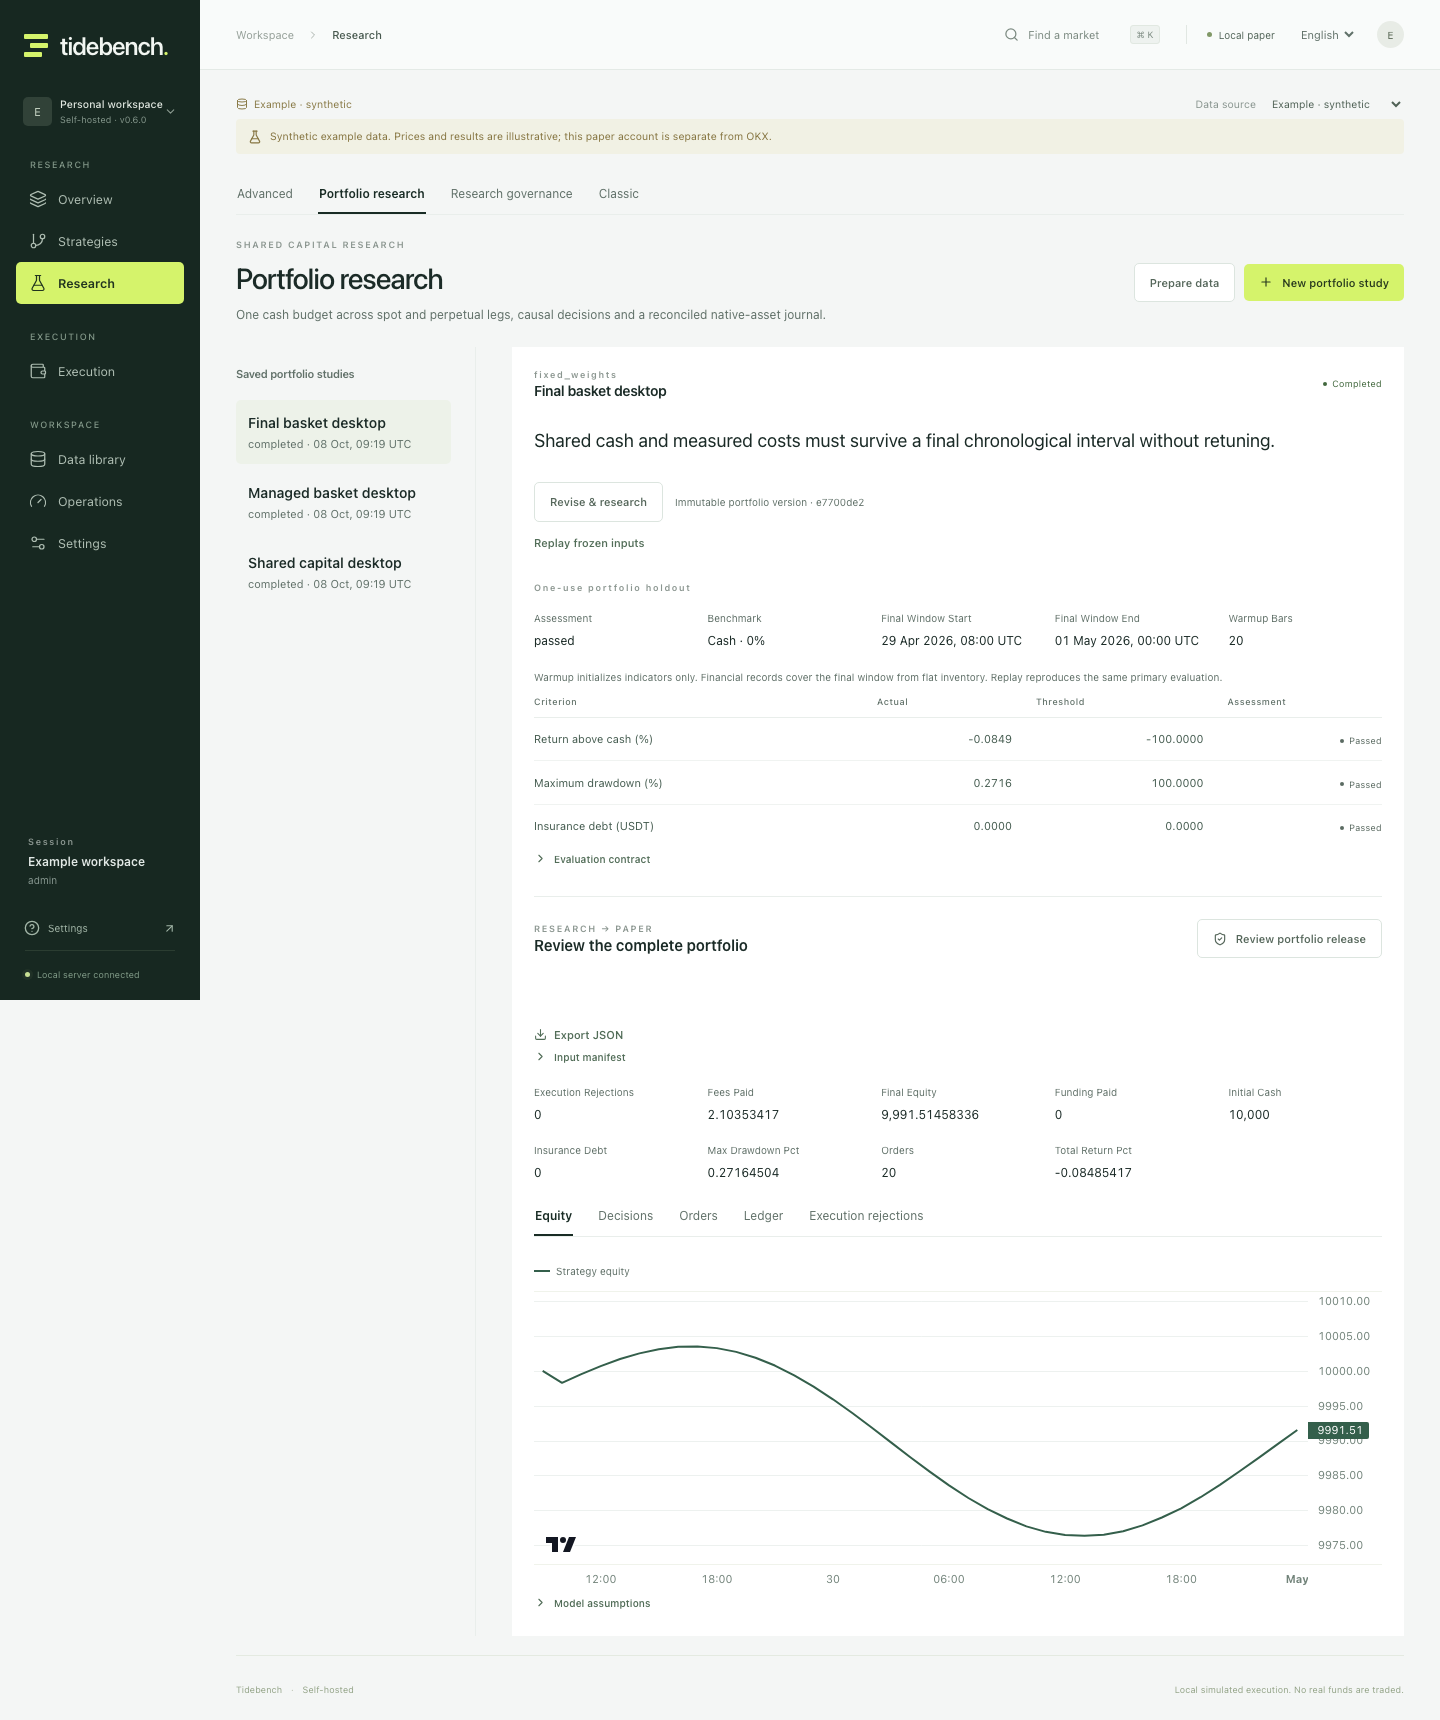
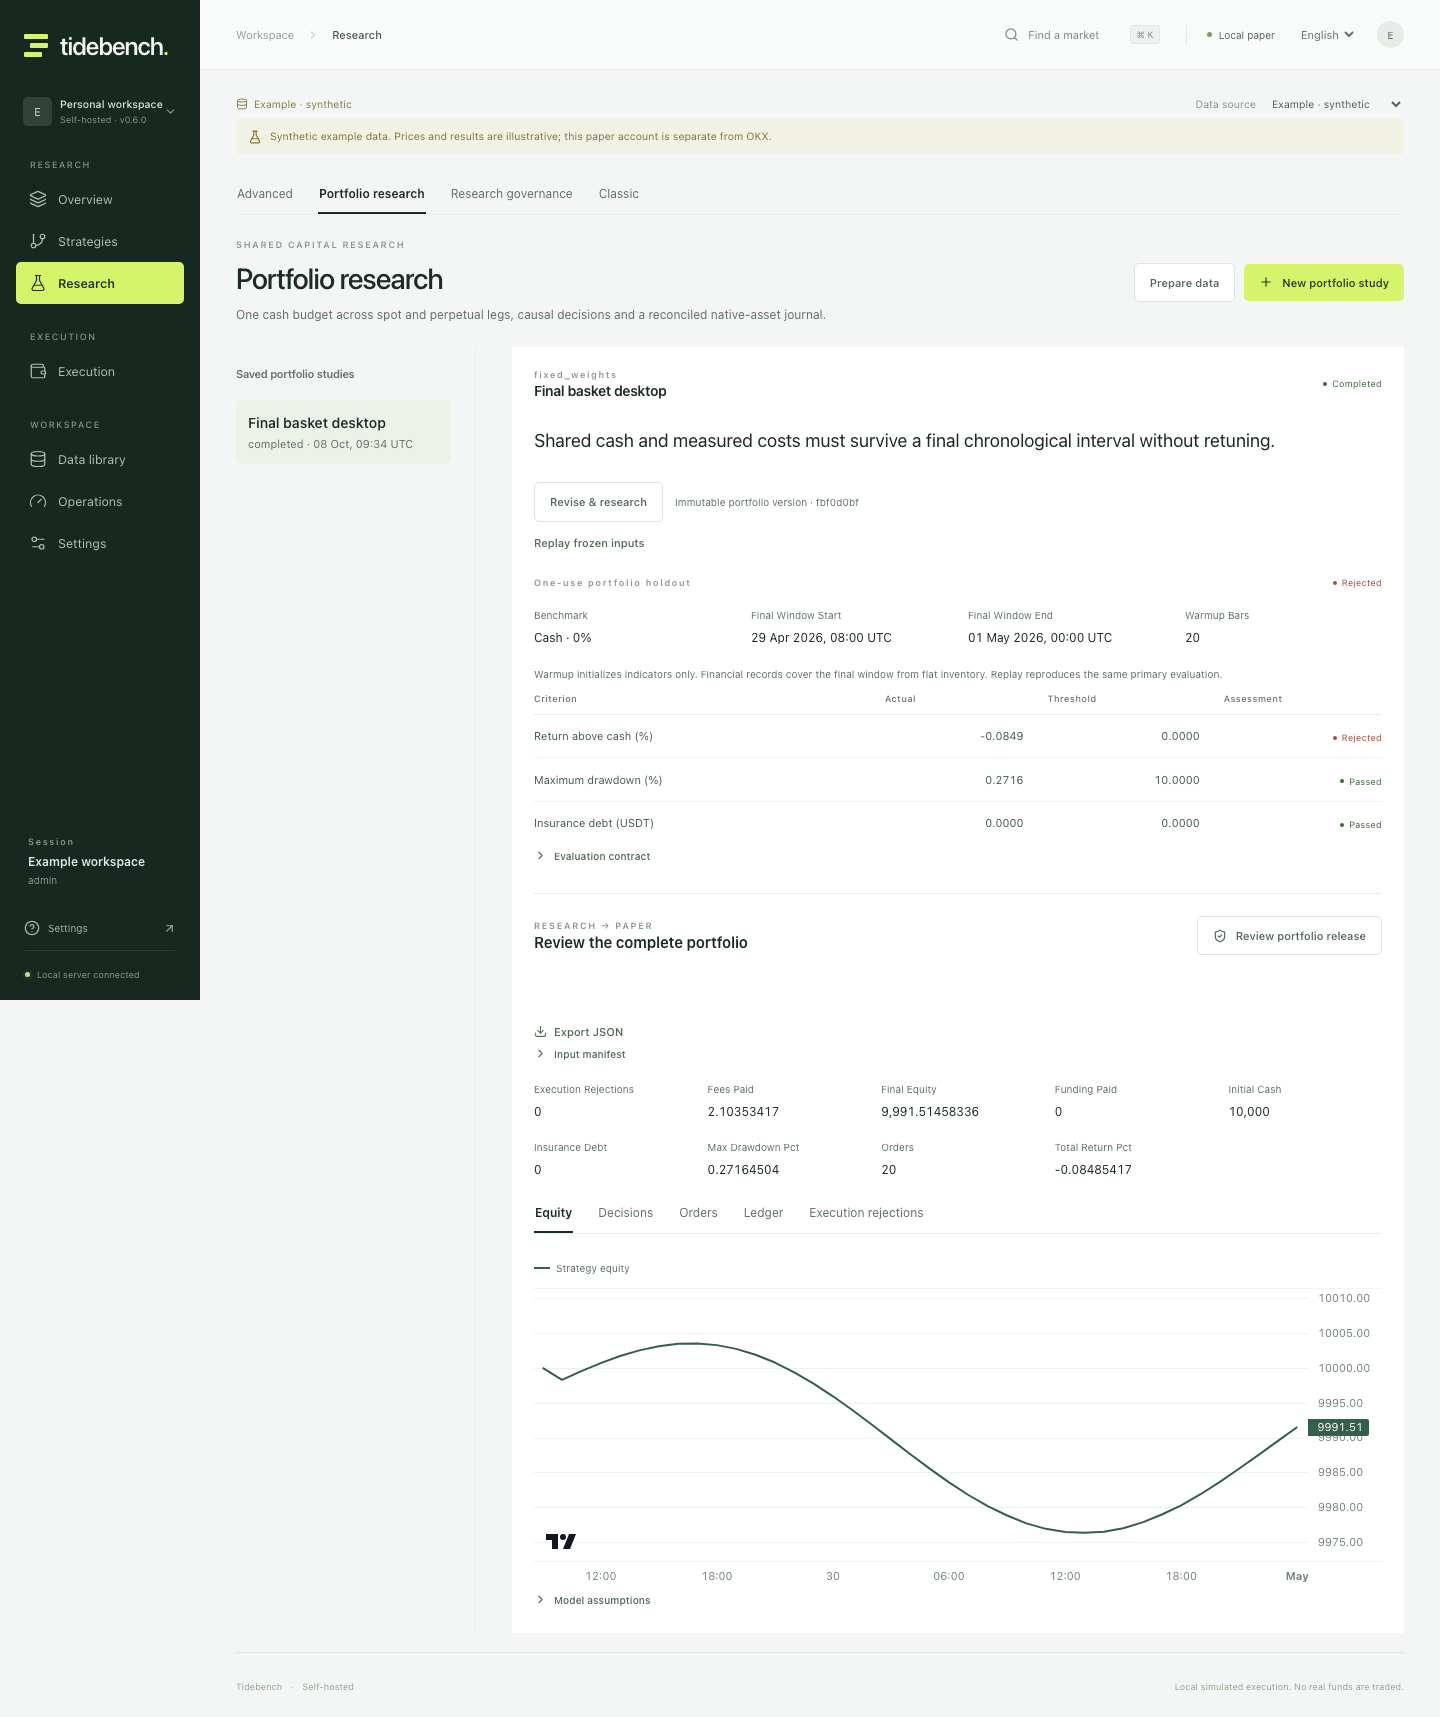
Verify and present rejected portfolio evaluations with explicit release acknowledgement

diff --git a/frontend/src/pages/PortfolioResearch.tsx b/frontend/src/pages/PortfolioResearch.tsx
@@ -258,6 +258,9 @@ export default function PortfolioResearch({
   );
   const plan = run.data?.result;
   const evaluationEvidence = plan?.evaluation as RecordData | undefined;
+  const sealedAssessment = String(
+    (evaluationEvidence?.rejection as RecordData)?.status ?? 'unavailable',
+  );
   const trainingMetrics = evaluationEvidence?.train_metrics as RecordData | undefined;
   return (
     <>
@@ -788,12 +791,22 @@ export default function PortfolioResearch({
                 )}
                 {evaluationEvidence?.mode === 'sealed_holdout' && (
                   <section className="sealed-evaluation">
-                    <span className="eyebrow">{t('One-use portfolio holdout')}</span>
+                    <div className="section-heading">
+                      <span className="eyebrow">{t('One-use portfolio holdout')}</span>
+                      <Status
+                        type={
+                          sealedAssessment === 'passed'
+                            ? 'good'
+                            : sealedAssessment === 'rejected'
+                              ? 'bad'
+                              : 'warning'
+                        }
+                      >
+                        {t(sealedAssessment)}
+                      </Status>
+                    </div>
                     <RecordGrid
                       value={{
-                        Assessment: t(
-                          String((evaluationEvidence.rejection as RecordData)?.status ?? '—'),
-                        ),
                         Benchmark: t('Cash · 0%'),
                         'Final window start': date(Number(evaluationEvidence.test_start), true),
                         'Final window end': date(Number(evaluationEvidence.test_end), true),
@@ -841,7 +854,11 @@ export default function PortfolioResearch({
                         {
                           key: 'passed',
                           label: 'Assessment',
-                          render: (r) => <Status>{t(r.passed ? 'passed' : 'rejected')}</Status>,
+                          render: (r) => (
+                            <Status type={r.passed === true ? 'good' : 'bad'}>
+                              {t(r.passed === true ? 'passed' : 'rejected')}
+                            </Status>
+                          ),
                         },
                       ]}
                     />

diff --git a/frontend/e2e/workspace.spec.ts b/frontend/e2e/workspace.spec.ts
@@ -886,8 +886,8 @@ test('portfolio holdout captures a final contract, evaluates once and replays fr
   await page
     .getByLabel('UTC final end', { exact: true })
     .fill(new Date(end).toISOString().slice(0, 16));
-  await page.getByLabel('Minimum return versus cash %', { exact: true }).fill('-100');
-  await page.getByLabel('Maximum accepted drawdown %', { exact: true }).fill('100');
+  await page.getByLabel('Minimum return versus cash %', { exact: true }).fill('0');
+  await page.getByLabel('Maximum accepted drawdown %', { exact: true }).fill('10');
   await page
     .getByLabel('Rejection plan', { exact: true })
     .fill(
@@ -922,6 +922,9 @@ test('portfolio holdout captures a final contract, evaluates once and replays fr
     )
     .toBe('completed');
   await expect(page.getByText('One-use portfolio holdout', { exact: true })).toBeVisible();
+  await expect(
+    page.locator('.sealed-evaluation .status-bad').getByText('rejected', { exact: true }).first(),
+  ).toBeVisible();
   if (process.env.TIDEBENCH_CAPTURE_ASSETS === '1') {
     await mkdir('../docs/assets', { recursive: true });
     await page.screenshot({
@@ -953,6 +956,19 @@ test('portfolio holdout captures a final contract, evaluates once and replays fr
   expect(evidence.recorded_attempts).toBe(2);
   expect(evidence.primary_evaluations).toBe(1);
   expect(evidence.replay_attempts).toBe(1);
+  const releasePreview = page.waitForResponse(
+    (r) => r.url().endsWith('/portfolio-releases/preview') && r.request().method() === 'POST',
+  );
+  await page.getByRole('button', { name: 'Review portfolio release', exact: true }).click();
+  expect((await (await releasePreview).json()).required_acknowledgements).toContain(
+    'holdout_rejected',
+  );
+  const rejectionAcknowledgement = page.getByRole('checkbox', {
+    name: 'This final holdout failed its pre-registered criteria. Paper deployment does not turn it into positive evidence.',
+    exact: true,
+  });
+  await expect(rejectionAcknowledgement).toBeVisible();
+  await expect(rejectionAcknowledgement).not.toBeChecked();
   await expect(page.locator('.error-box')).toHaveCount(0);
   expect(pageErrors).toEqual([]);
   expect(

diff --git a/docs/verification.md b/docs/verification.md
@@ -5,7 +5,7 @@
 - Full local backend regression on the corrected planner: **666 passed** (123.99 seconds), followed by the additional strict-residual/minimum-deferral counterexample (**1 passed**). Ruff lint/format, frozen offline Python sync, TypeScript/Vite and Prettier passed. The existing Starlette/HTTPX deprecation remains visible.
 - **16 desktop/mobile Chromium workflows passed** on the final build (2.0 minutes). New coverage includes exact portfolio capture → review → seal → primary evaluation → verified replay, plus preserving a newly edited order draft when a previous submission responds late. Desktop/mobile screenshots were inspected and long-decimal criteria formatted with exact hover values.
 - Real SQLite counterexamples verify concurrent single-primary admission, queue rollback, committed-failure consumption, cross-bar/alias/unbound access rejection, indicator warmup exposure, schema-6 recovery retaining consumption/exposure/trials, missing primary artifacts and conflicting/corrupt retained facts. A real independent market fill between quote enumeration and managed-command admission now retries without duplicate fills or compensation.
-- Current standalone managed/recovery and offline red-team audit scripts passed against this implementation. Earlier failed v0.5 lifecycle trials are preserved; see [audit method](audit/soak-method.md). The [independent Linux CI](https://github.com/billpwchan/tidebench/actions/runs/37755474249) passed on source `5e687fd716dfe4f7ef7b224c082ba656a613e828`, including 666 backend tests, 16 browser workflows, isolated audits and the built container/readiness smoke. Later evidence/tests/documentation commits preserve the same application implementation.
+- Current standalone managed/recovery and offline red-team audit scripts passed against this implementation. Earlier failed v0.5 lifecycle trials are preserved; see [audit method](audit/soak-method.md). The [independent Linux CI](https://github.com/billpwchan/tidebench/actions/runs/37755474249) passed on source `5e687fd716dfe4f7ef7b224c082ba656a613e828`, including 666 backend tests, 16 browser workflows, isolated audits and the built container/readiness smoke. The later [evidence/test CI](https://github.com/billpwchan/tidebench/actions/runs/37756868967) passed **667 backend tests** and 16 browser workflows. The final presentation review added explicit rejected-result coloring, preserved pre-declared nonnegative cash-return criteria in the public screenshots, and verified the rejected-evidence acknowledgement in both desktop/mobile browsers; the numerical backend is unchanged from the elapsed audit.
 - Read-only [current public OKX acceptance](audit/v0.6.0-public-okx-observations.json) verified 48 trade/mark/index bars, 6 settled funding events with exact-time mark inputs and 99 captured current tiers; raw prices are not committed. A private copy migration and the actual local schema-5→6 upgrade preserved authoritative financial/user rows, passed SQLite integrity/FK checks and retained administrator setup state.
 - The corrected [elapsed lifecycle audit](audit/v0.6.0-soak-observations.json) passed **608.323 real seconds** on committed source `5e687fd716dfe4f7ef7b224c082ba656a613e828`: 3 groups, 60 separate clock steps (240 synthetic hours), 154 orders/commands, 93 completed batches, 120 funding settlements, 274 contribution events, 9 research jobs and 720 concurrent reads. All 240 observed contribution reports reconciled; no unexpected HTTP failures, duplicate keys, missing filled-order references or external network attempts occurred. A real SIGTERM restart preserved 77 prior order IDs/bodies; a fresh shutdown marker confirmed drained work, stopped supervisors and released lease. Final owner-versus-account net delta was `-1.88E-47` USDT, within the declared finite-precision acceptance bound. This sequential-admission, shared-host synthetic workload does not establish simultaneous activation capacity, long-term uptime or venue liquidity.
 - Main application bundle: about 466 kB before transfer compression; research/governance pages remain deferred bundles. This shared-host size and verification record do not establish a capacity or availability SLA.

diff --git a/docs/release-0.6.0.md b/docs/release-0.6.0.md
@@ -2,13 +2,13 @@
 
 Portfolio research now preserves the complete computation inputs before admission. A final evaluation binds an immutable portfolio, exact market data and settlement marks, rules/tiers, costs, capital limits, warmup and typed rejection criteria to one primary run. Repeated or concurrent evaluation requests retrieve that run; a committed failure cannot reset the final test.
 
-- A complete **Research governance → Portfolios** workflow captures, reviews, seals and evaluates the contract; result pages display cash-benchmark criteria and distinguish rejected, inconclusive and reproduced evidence.
+- A complete **Research governance → Portfolios** workflow captures, reviews, seals and evaluates the contract; result pages display cash-benchmark criteria and distinguish rejected, inconclusive and reproduced evidence. A rejected-result browser flow verifies the explicit warning before release review.
 - Captured-input replay performs no catalog replacement reads and requires identical result hashes under the pinned implementation. Replays remain linked to their original primary evaluation.
 - Shared source/market/time reservations protect across portfolio legs, single strategies, dataset aliases and bar intervals, including indicator warmup exposure.
 - Schema 6 restore unions newer independently hashed reservation, exposure, consumption and trial facts before replacing financial state. A missing consumed result remains explicitly unavailable; restoring an older sealed backup cannot reopen it.
 - Undersized same-side rebalance differences remain visible residuals under the reviewed limit; full exits, side changes, initial minimum failures and cash shortfalls retain their safety rules. Historical and managed portfolios use the same planning policy.
 - Real elapsed testing exposed and led to fixes for concurrent inventory/quote enumeration and the operations endpoint's SQLite WAL disappearance race. A late order response also preserves a trader's already edited next draft.
-- 16 desktop/mobile workflows, 666 backend regressions plus an additional strict-residual counterexample, real SQLite recovery cases and frozen perpetual funding/tier checks accompany the implementation. The corrected lifecycle audit passed 608 real seconds with a SIGTERM restart, 154 orders and 120 funding settlements; original failed observations are retained. Public OKX acceptance also verified a current 48-hour perpetual window.
+- 16 desktop/mobile workflows and 667 backend regressions including a strict-residual counterexample, real SQLite recovery cases and frozen perpetual funding/tier checks accompany the implementation. The corrected lifecycle audit passed 608 real seconds with a SIGTERM restart, 154 orders and 120 funding settlements; original failed observations are retained. Public OKX acceptance also verified a current 48-hour perpetual window.
 
 Read the [research governance guide](research-governance.md), [lifecycle audit method](audit/soak-method.md) and [verification record](verification.md). Execution remains local paper trading, on public data. Cash is this protocol's explicit benchmark; it is not a universal benchmark or a statistical significance claim. Historical-universe completeness, contract lifecycle conversion, order-book capacity and longer external operations remain substantive implementation/acceptance work.
 

diff --git a/README.md b/README.md
@@ -61,6 +61,8 @@ For an offline walkthrough, choose **Example**:
 
 Example time can be paused, accelerated or stepped forward, with separate capital. OKX failures remain visible; the application never substitutes synthetic prices automatically.
 
+![A captured final evaluation rejected against its pre-declared cash-return criterion; synthetic data](docs/assets/portfolio-holdout-desktop.png)
+
 ### Built application
 
 ```bash

diff --git a/README.zh-CN.md b/README.zh-CN.md
@@ -59,6 +59,8 @@ make dev
 
 Example 使用可暂停、加速和向前步进的合成行情时钟与独立账户。OKX 连接失败会明确显示，不会自动换成假数据。
 
+![冻结最终评估如实拒绝未达到预定现金收益标准的组合，使用合成数据](docs/assets/portfolio-holdout-desktop.png)
+
 构建后的统一服务：
 
 ```bash
